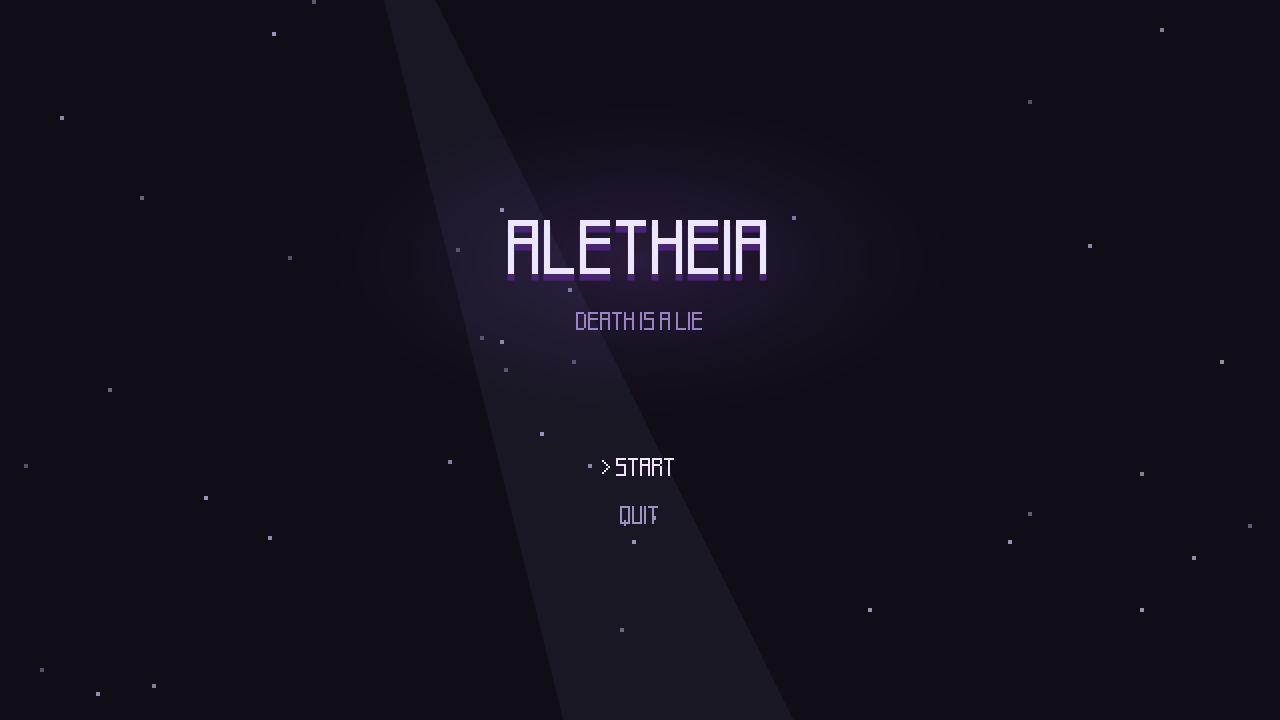
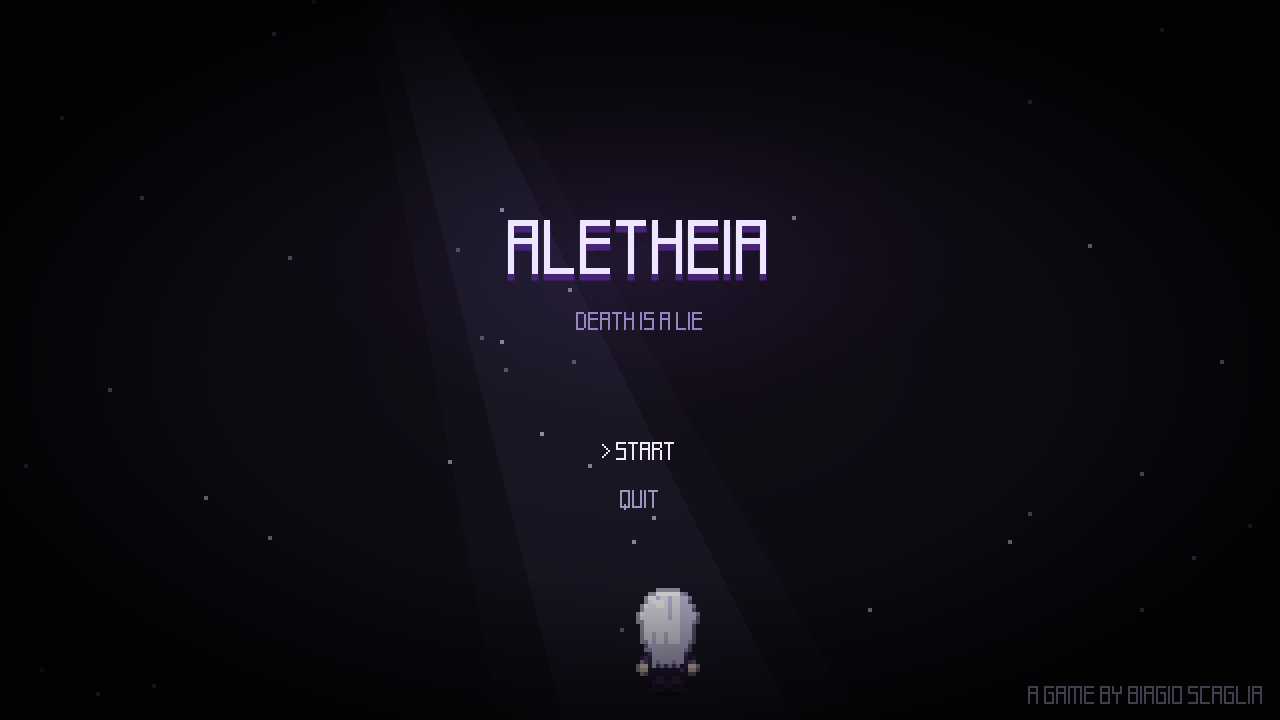
Documentazione: nuovo titolo e OST

diff --git a/stanza/README.md b/stanza/README.md
@@ -27,11 +27,16 @@ $GODOT --path . -s res://tools/capture_frames.gd -- <cartella> - res://title/tit
 studio_intro/                    l'intro dello studio (copiata da ../intro-studio, sottotitolo "presents")
 title/
 ├── title_screen.gd / .tscn      il titolo: appare dal nero, menu Start / Quit, poi la stanza
-├── title_backdrop.gd            raggio di luna e pulviscolo dietro il titolo
-└── title_menu.gd                il menu (Button veri: tastiera, gamepad, mouse)
+├── title_backdrop.gd            raggio di luna (con le nuvole che passano) e pulviscolo
+├── title_figure.gd              Lethe di spalle nel raggio (solo se ci sono i suoi sprite)
+├── title_name.gd                il titolo col nome nascosto: ogni tanto di A-LETHE-IA resta solo LETHE
+└── title_menu.gd                il menu (Button veri: tastiera, gamepad, mouse), col suono del carillon
 ui/fonts/                        Kenney Pixel (CC0)
 main.tscn / main.gd              stanza al buio (CanvasModulate) + protagonista + OST
-audio/stanza_theme.wav           l'OST: loop lo-fi di 25 s (dal generatore, senza stacchi)
+audio/stanza_theme.wav           l'OST della stanza: loop lo-fi di 25 s (dal generatore, senza stacchi)
+audio/title_theme.wav            l'OST del titolo: il lamento di un giullare, valzer lento in Re minore
+                                 su un carillon stonato, con sonagli e un bordone col tritono (44 s, loop)
+audio/ui_move.wav, ui_confirm.wav  i suoni del menu (lamelle di carillon)
 world/
 ├── room_tiles.png / .json       atlante dei tile e i suoi dati (dal generatore)
 ├── room_tileset.gd              costruisce il TileSet dal JSON, con le collisioni
